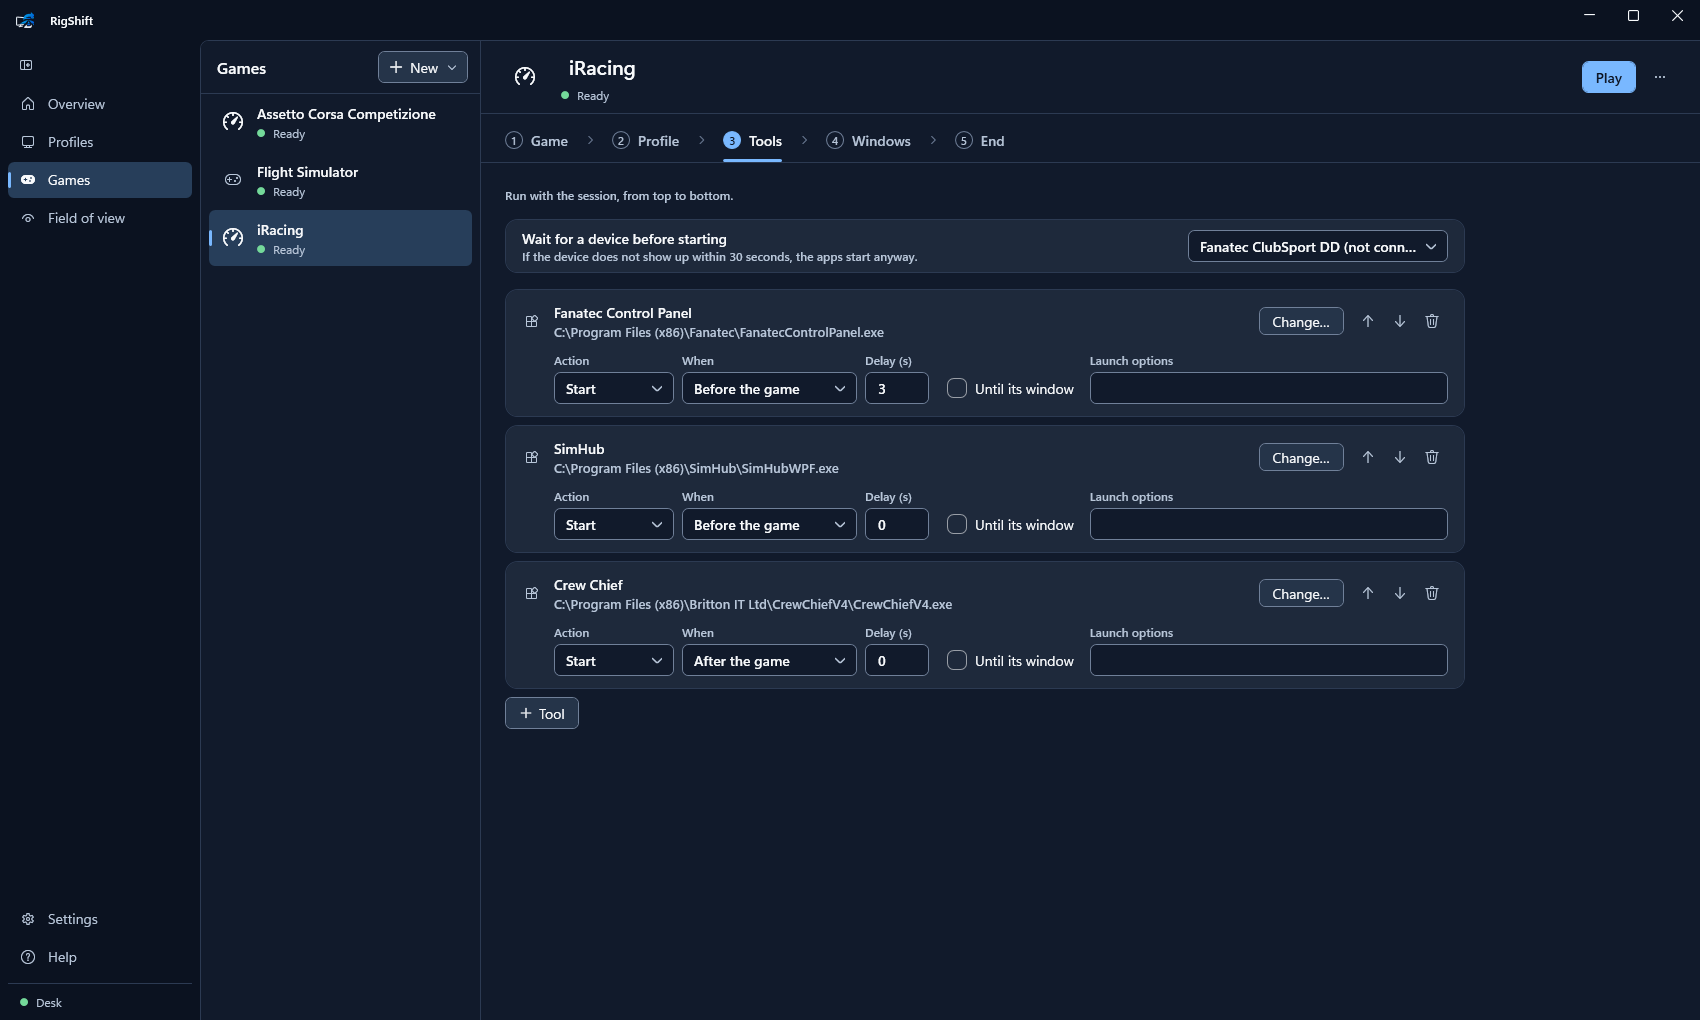
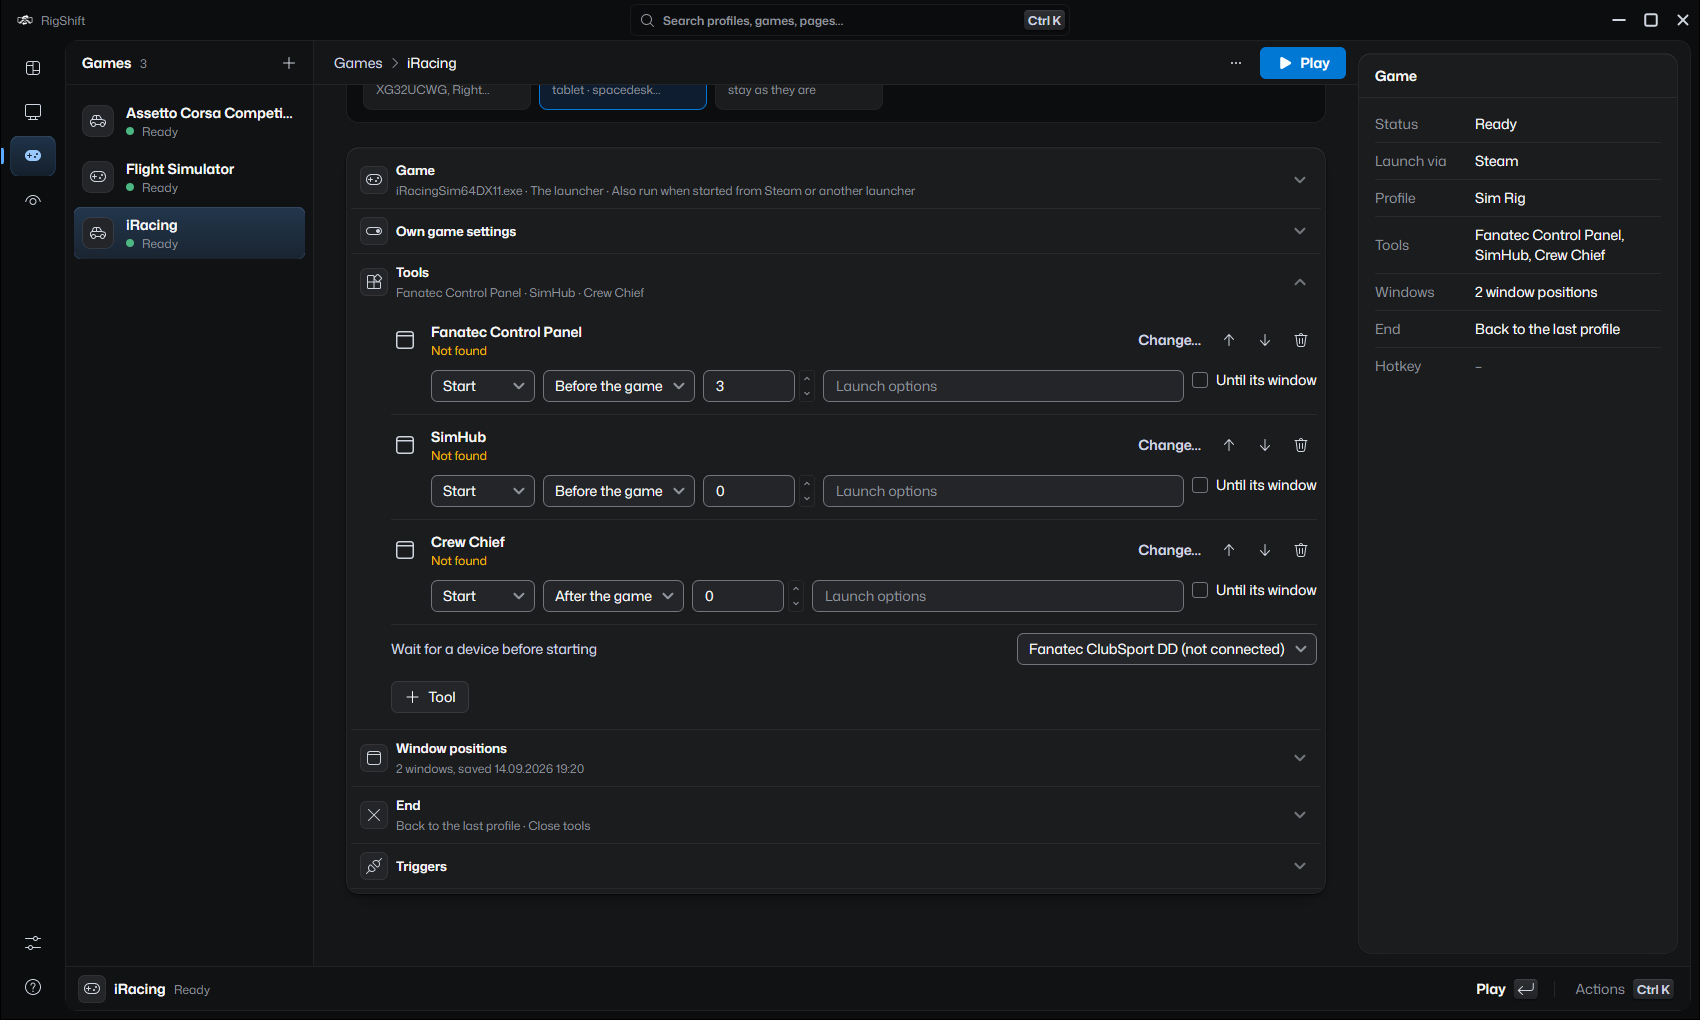
docs: README screenshots and project page tour from the 5.0 app
Taken with the demo data in the dark theme; the page crops follow the new layouts. Closes #61. Refs #175

diff --git a/site/index.html b/site/index.html
@@ -218,7 +218,7 @@ footer .fine { margin-left: auto; }
           <div class="view"><img class="full" src="screenshots/triggers-dark.png" width="1700" height="1020" alt="" loading="lazy"></div>
           <div class="view"><img class="full" src="screenshots/game-editor-dark.png" width="1700" height="1020" alt="" loading="lazy"></div>
           <div class="view"><img class="small confirm" src="screenshots/confirmation-dark.png" width="520" height="382" alt="" loading="lazy"></div>
-          <div class="view"><div class="small tray crop" style="--iw:444; --x:42; --y:16; --w:361; --h:347"><img src="screenshots/tray-popup-dark.png" width="444" height="387" alt="" loading="lazy"></div></div>
+          <div class="view"><div class="small tray crop" style="--iw:340; --x:0; --y:0; --w:340; --h:327"><img src="screenshots/tray-popup-dark.png" width="444" height="387" alt="" loading="lazy"></div></div>
           <div class="view"><img class="full" src="screenshots/fov-dark.png" width="1700" height="1020" alt="" loading="lazy"></div>
         </div>
         <p class="caption" id="caption" aria-live="polite"></p>
@@ -237,7 +237,7 @@ footer .fine { margin-left: auto; }
             <h3 data-i18n="f.d.h">Displays</h3>
             <p data-i18n="f.d.p">Which monitors are on, their arrangement, main display, refresh rate, HDR and NVIDIA Surround. The whole layout is applied in one Windows call, so it either works completely or nothing changes.</p>
           </div>
-          <div class="vis"><div class="crop" style="--iw:1700; --x:505; --y:228; --w:960; --h:470"><img src="screenshots/profiles-dark.png" width="1700" height="1020" loading="lazy" data-i18n-alt="alt.d" alt="Displays of the Sim Rig profile: an Odyssey G93SC as main display, a dash tablet marked optional, and the NVIDIA Surround setting."></div></div>
+          <div class="vis"><div class="crop" style="--iw:1700; --x:346; --y:193; --w:1012; --h:556"><img src="screenshots/profiles-dark.png" width="1700" height="1020" loading="lazy" data-i18n-alt="alt.d" alt="Displays of the Sim Rig profile: an Odyssey G93SC as main display, a dash tablet marked optional, and the NVIDIA Surround setting."></div></div>
         </article>
         <article class="card">
           <div class="txt">
@@ -251,21 +251,21 @@ footer .fine { margin-left: auto; }
             <h3 data-i18n="f.t.h">Tray menu</h3>
             <p data-i18n="f.t.p">Profiles and games are one click away. Each profile can have a hotkey, and one more toggles between the last two.</p>
           </div>
-          <div class="vis win"><div class="crop" style="--iw:444; --x:42; --y:16; --w:361; --h:347"><img src="screenshots/tray-popup-dark.png" width="444" height="387" loading="lazy" data-i18n-alt="alt.t" alt="Tray menu with the profiles Desk and Sim Rig and three games."></div></div>
+          <div class="vis win"><div class="crop" style="--iw:340; --x:0; --y:0; --w:340; --h:327"><img src="screenshots/tray-popup-dark.png" width="444" height="387" loading="lazy" data-i18n-alt="alt.t" alt="Tray menu with the profiles Desk and Sim Rig and three games."></div></div>
         </article>
         <article class="card wide">
           <div class="txt">
             <h3 data-i18n="f.g.h">Games</h3>
             <p data-i18n="f.g.p">A game entry starts tools like SimHub and Crew Chief in order, moves their windows into place and launches the game. When the game exits, the tools close and the desk can come back. Games from Steam, Epic, EA, Xbox and iRacing are found automatically.</p>
           </div>
-          <div class="vis"><div class="crop" style="--iw:1700; --x:505; --y:180; --w:960; --h:510"><img src="screenshots/game-editor-dark.png" width="1700" height="1020" loading="lazy" data-i18n-alt="alt.g" alt="Tools of the iRacing entry: wait for the Fanatec wheelbase, then start Fanatec Control Panel and SimHub before the game and Crew Chief after it."></div></div>
+          <div class="vis"><div class="crop" style="--iw:1700; --x:346; --y:256; --w:980; --h:464"><img src="screenshots/game-editor-dark.png" width="1700" height="1020" loading="lazy" data-i18n-alt="alt.g" alt="Tools of the iRacing entry: wait for the Fanatec wheelbase, then start Fanatec Control Panel and SimHub before the game and Crew Chief after it."></div></div>
         </article>
         <article class="card wide">
           <div class="txt">
             <h3 data-i18n="f.v.h">Field of view</h3>
             <p data-i18n="f.v.p">The real screen size is read from the monitor. From seating distance and screen angle, RigShift calculates the value for 18 sims, each in the unit the game expects.</p>
           </div>
-          <div class="vis"><div class="crop" style="--iw:1700; --x:668; --y:138; --w:882; --h:470"><img src="screenshots/fov-dark.png" width="1700" height="1020" loading="lazy" data-i18n-alt="alt.v" alt="Triple screens seen from above with 53 degrees horizontal and 31.3 degrees vertical field of view."></div></div>
+          <div class="vis"><div class="crop" style="--iw:1700; --x:563; --y:157; --w:956; --h:420"><img src="screenshots/fov-dark.png" width="1700" height="1020" loading="lazy" data-i18n-alt="alt.v" alt="Triple screens seen from above with 53 degrees horizontal and 31.3 degrees vertical field of view."></div></div>
         </article>
         <article class="card plain">
           <div class="txt">
